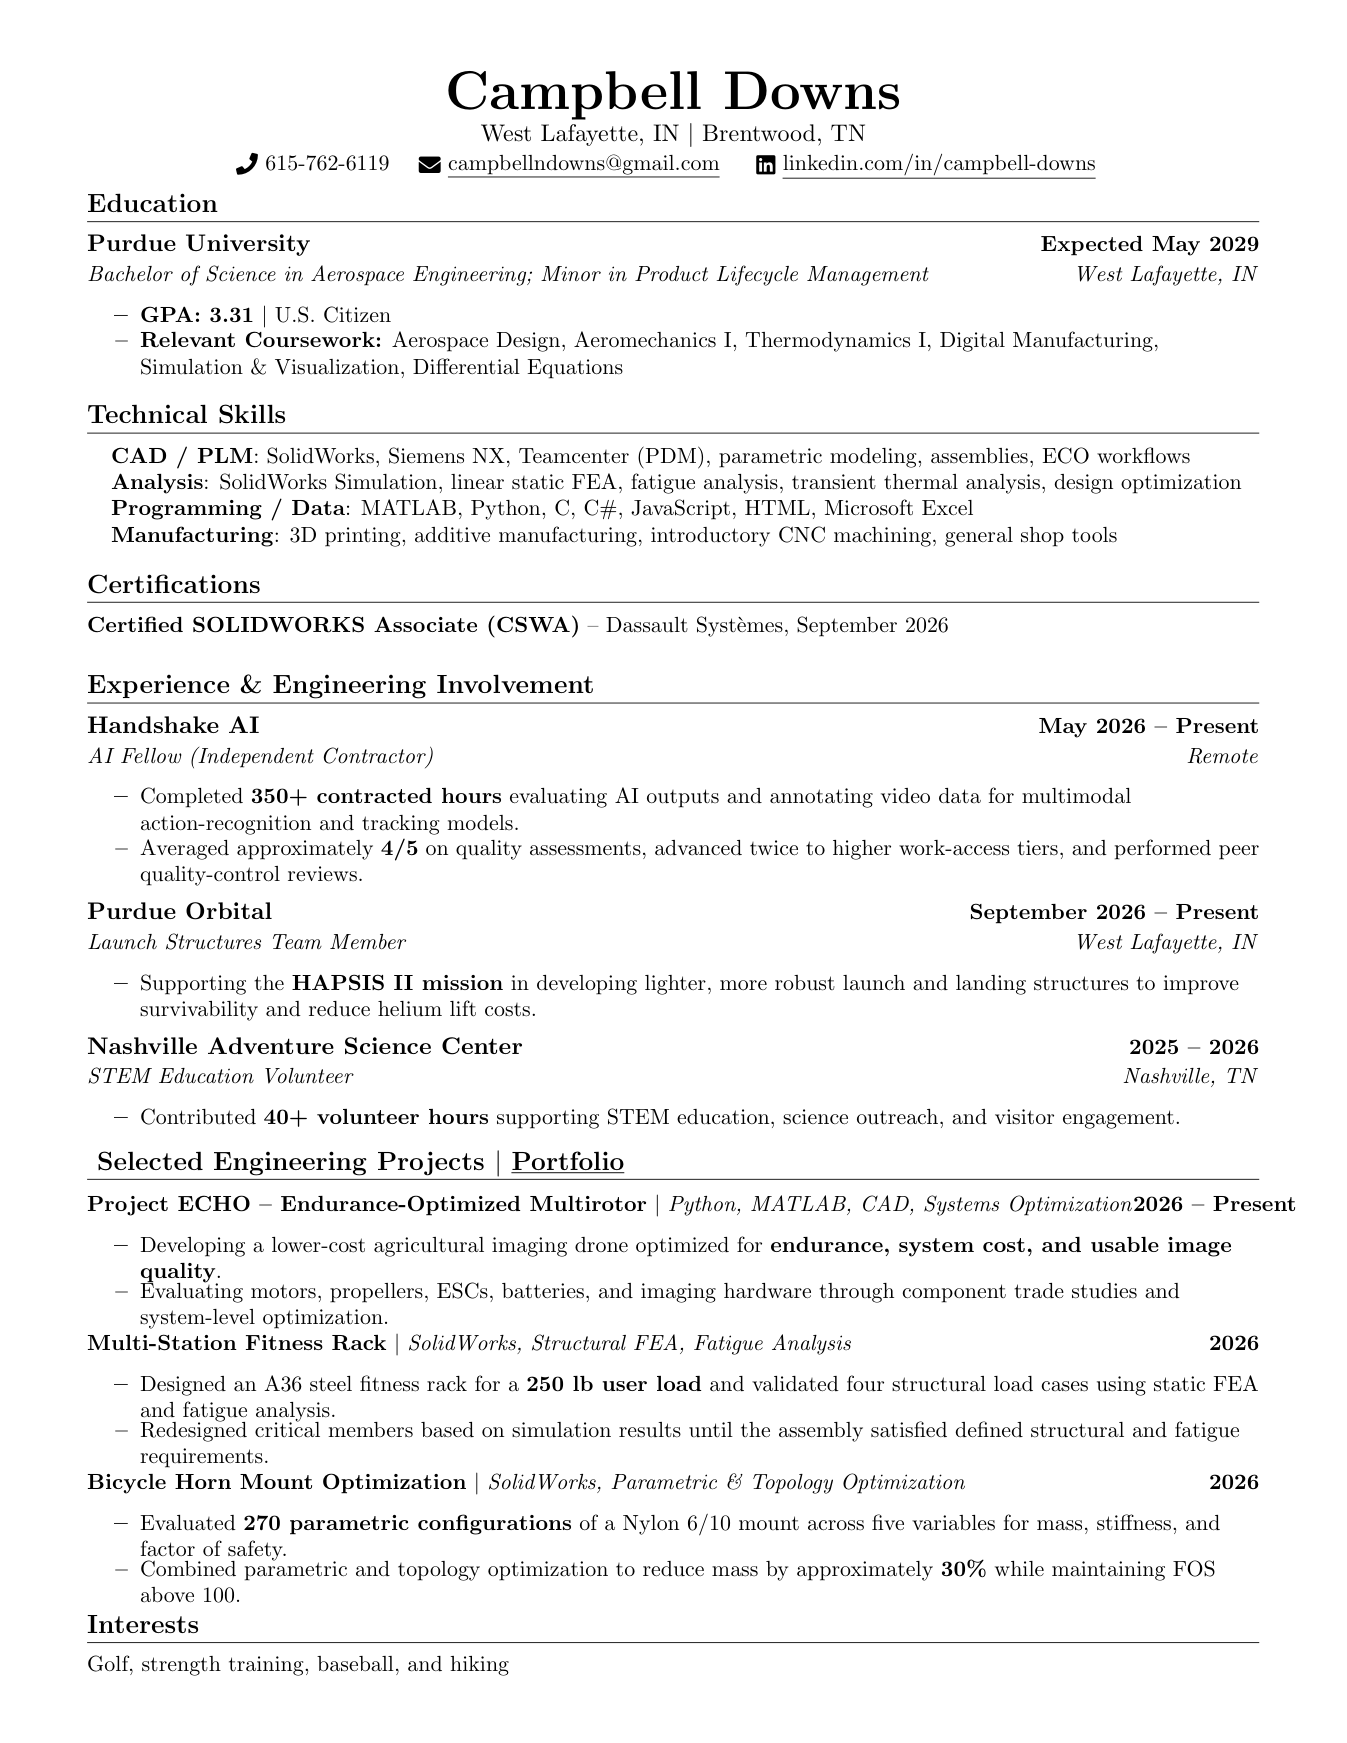
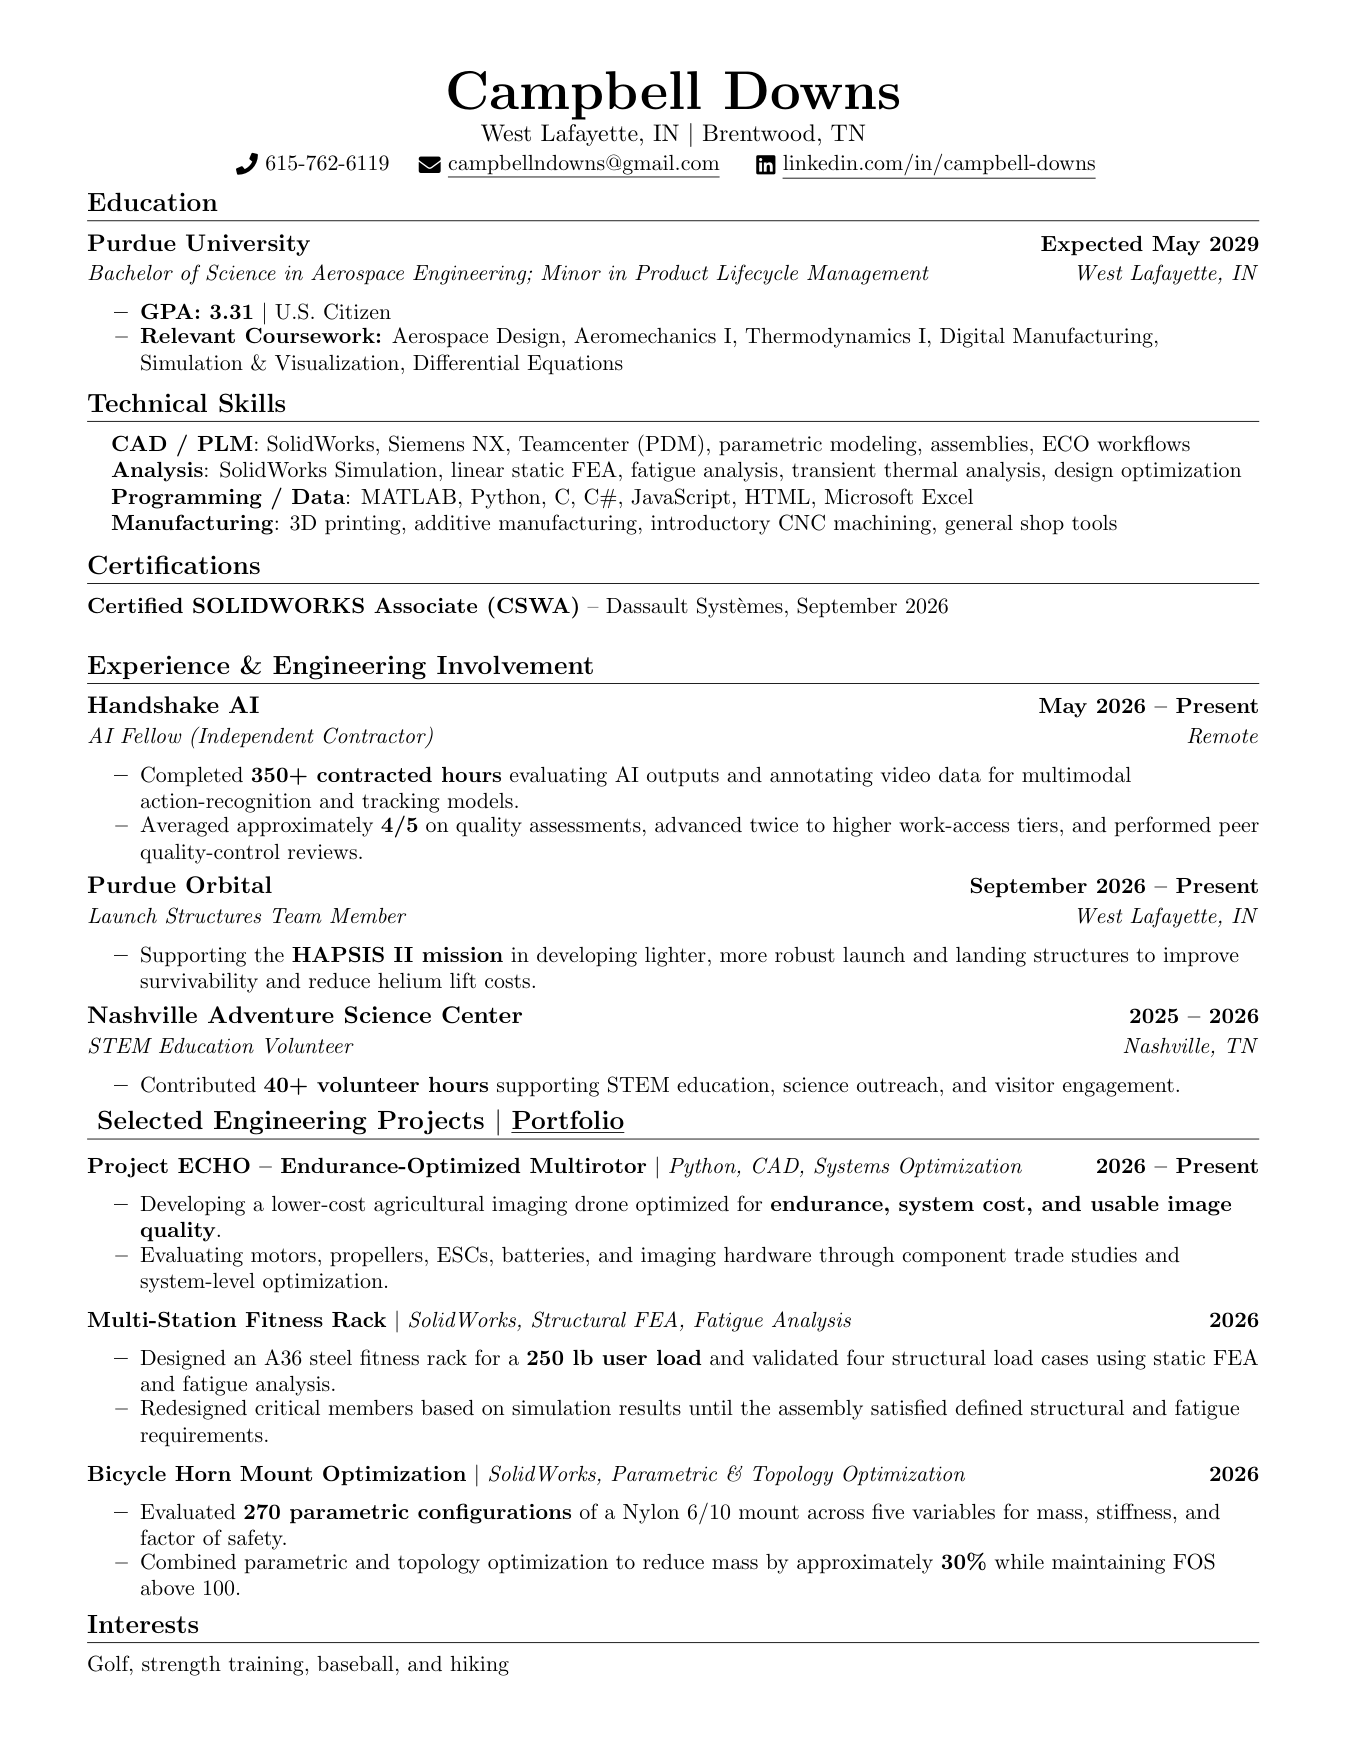
Replace resume with updated September 20, 2026 PDF.
Refresh the downloadable PDF, preview PNG, and portfolio hotspot.

diff --git a/resume.html b/resume.html
@@ -40,7 +40,7 @@
         <h1>Resume</h1>
         <p>Current résumé for internship applications.</p>
         <div class="resume-actions" data-resume-actions>
-          <a class="btn btn-primary" href="assets/resume.pdf?v=92026">Download PDF</a>
+          <a class="btn btn-primary" href="assets/resume.pdf?v=92026b">Download PDF</a>
         </div>
       </header>
 
@@ -48,7 +48,7 @@
         <div class="resume-page-wrap">
           <img
             class="resume-page"
-            src="assets/resume.png?v=92026"
+            src="assets/resume.png?v=92026b"
             alt="Resume for Campbell Downs, Purdue Aerospace Engineering"
           />
           <div class="resume-link-layer">
@@ -71,7 +71,7 @@
               href="https://campbelldowns.com"
               target="_blank"
               rel="noopener"
-              style="left: 37.8%; top: 65.8%; width: 8.7%; height: 2.0%"
+              style="left: 37.8%; top: 63.5%; width: 8.7%; height: 2.0%"
               aria-label="Portfolio site"
             ></a>
           </div>
